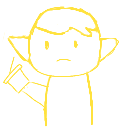
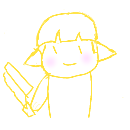
added drawings and made the image pop up when in !fight

diff --git a/cogs/minigame.py b/cogs/minigame.py
@@ -26,7 +26,7 @@ def player1(new_embed, value1,value2,player1,player2,line2 = ""):
         )
     new_embed.add_field(name=player1,value= str(value1)+"/100")
     new_embed.insert_field_at(0,name=player2,value=str(value2)+"/100")
-    return new_embed, value1, value2, line1
+    return new_embed, value1, value2, line1, move1
 
 def player2(new_embed, value1,value2,player1,player2,line1):
     move2, damage2 = moves.select_move(player2)
@@ -48,7 +48,7 @@ def player2(new_embed, value1,value2,player1,player2,line1):
         )
     new_embed.add_field(name=player1,value= str(value1)+"/100")
     new_embed.insert_field_at(0,name=player2,value=str(value2)+"/100")
-    return new_embed, value1, value2, line2
+    return new_embed, value1, value2, line2, move2
 
 class Minigame(commands.Cog):
     def __init__(self,bot):
@@ -62,8 +62,7 @@ class Minigame(commands.Cog):
     async def fight(self,ctx):
         author = ctx.author.display_name
         display_name = ctx.message.mentions[0].display_name
-        #author_pfp = ctx.author.display_avatar
-        #display_pfp = ctx.message.mentions[0].display_avatar
+        channel_id = self.bot.get_channel(1165731670524166184)
         image_manipulation.fight_scene(author,display_name)
         embed = discord.Embed(
             colour=discord.Colour.dark_teal(),
@@ -73,17 +72,24 @@ class Minigame(commands.Cog):
         embed.insert_field_at(0,name=display_name,value="100/100")
         value1 = 100
         value2 = 100
-        await ctx.send(file=discord.File('fight.png'))
+        file = discord.File('fight.png')
+        message = await channel_id.send(file=file)
+        image_url = message.attachments[0].url
+        scene = await ctx.send(image_url)
         message = await ctx.send(embed=embed)
         i = 2 
         line2 = ""
         while(value1 > 0 and value2 >0):
             if(i%2 == 0):
-                new_embed, value1, value2, line1 = player1(embed,value1,value2,author,display_name,line2)
+                new_embed, value1, value2, line1, move = player1(embed,value1,value2,author,display_name,line2)
             else:
-                new_embed, value1, value2, line2 = player2(embed,value1,value2,author,display_name,line1)
-            await asyncio.sleep(2.5)
+                new_embed, value1, value2, line2, move = player2(embed,value1,value2,author,display_name,line1)
+            await asyncio.sleep(4)
             await message.edit(embed=new_embed)
+            #file = discord.File(moves.links[move])
+            #move_message = await channel_id.send(file=file)
+            #move_img = move_message.attachments[0].url
+            await scene.edit(content=moves.links[move])
             i += 1
 
 
@@ -108,7 +114,21 @@ class Minigame(commands.Cog):
         await display_pfp.save(filename2)
         await ctx.send("file saved")
         #os.remove(filename)
+
+    @commands.command()
+    async def pic(self,ctx):
+        image = "art/moves/STeals your SQ points.png"
+        await ctx.send(file=discord.File(image))
     
+    
+    @commands.command()
+    async def extract(self,ctx):
+        image = 'maps/haggle.png'
+        file = discord.File(image)
+        channel_id = self.bot.get_channel(1165731670524166184)
+        message = await channel_id.send(file=file)
+        image_url = message.attachments[0].url
+        await ctx.send(image_url)
 
 async def setup(bot):
     await bot.add_cog(Minigame(bot))
@@ -118,21 +138,6 @@ async def setup(bot):
 
 
 
-
-
-        
-'''
-    @bot.command()
-    async def extract(ctx):
-        image = 'maps/haggle.png'
-        file = discord.File(image)
-        channel_id = bot.get_channel(1165731670524166184)
-        message = await channel_id.send(file=file)
-        image_url = message.attachments[0].url
-        await ctx.send(image_url)
-
-
-'''
 
     
 

diff --git a/cogs/moves.py b/cogs/moves.py
@@ -1,30 +1,30 @@
 import random
 attacks = {
     "kiwi": {
-        "Bamboozler" : 49,
-        "punch" : 5,
-        "kick" : 7,
-        "squidbagg" : 17,
-        "tenta missiles" : 30,
-        "aimdrills" : 13,
-        "poke" : 2,
-        "burst bomb" : 20,
-        "line marker" : 10,
-        "steals okane" : 17,
-        "loses braincells" : 11,
+        "Bamboozler" : 29, 
+        #"punch" : 5,
+        #"kick" : 7,
+        #"squidbagg" : 17,
+        #"tenta missiles" : 30,
+        #"aimdrills" : 13,
+        #"poke" : 2,
+        #"burst bomb" : 20,
+        #"line marker" : 10,
+        #"steals okane" : 17,
+        #"loses braincells" : 11,
     },
     "henlo" : {
-        "subway" : 54,
-        "wiper" : 15,
-        "poke" : 2,
-        "tenta missiles" : 30,
-        "disbands sonder" : 27,
-        "learns squeezer" : 7,
-        "punch" : 5,
-        "kick" : 7,
+        #"subway" : 54,
+        #"wiper" : 15,
+        #"poke" : 2,
+        #"tenta missiles" : 30,
+        #"disbands sonder" : 27,
+        #"learns squeezer" : 7,
+        #"punch" : 5,
+        #"kick" : 7,
         "Steals your SQ points" : 17,
-        "this way!" : 10,
-        "machine" : 21
+        #"this way!" : 10,
+        #"machine" : 21
     }, 
     "Jay" : {
         "tri-slosher" : 22,
@@ -77,6 +77,12 @@ pfps = {
     "henlo" : "art/henlo.png",
     "Jay" : "art/jay.png"
 }
+
+links = {
+     "Bamboozler" : 'https://cdn.discordapp.com/attachments/936737944788688906/1168712388158177341/Untitled89_20231030170735.png?ex=6552c33a&is=65404e3a&hm=bac8ccd9236476f862cacd62bffcf97c677d48bcf5bb20a684d3c94a29499aee&',
+     "Steals your SQ points" : 'https://cdn.discordapp.com/attachments/936737944788688906/1168712387885535355/Untitled90_20231030174455.png?ex=6552c33a&is=65404e3a&hm=d27425de8084392b7616b2bd1290ed0ecc62d4ca336bb27a9e9b0a508bd49798&'
+}
+
 
 def select_move(person):
     move = random.choice(list(attacks[person].keys()))
